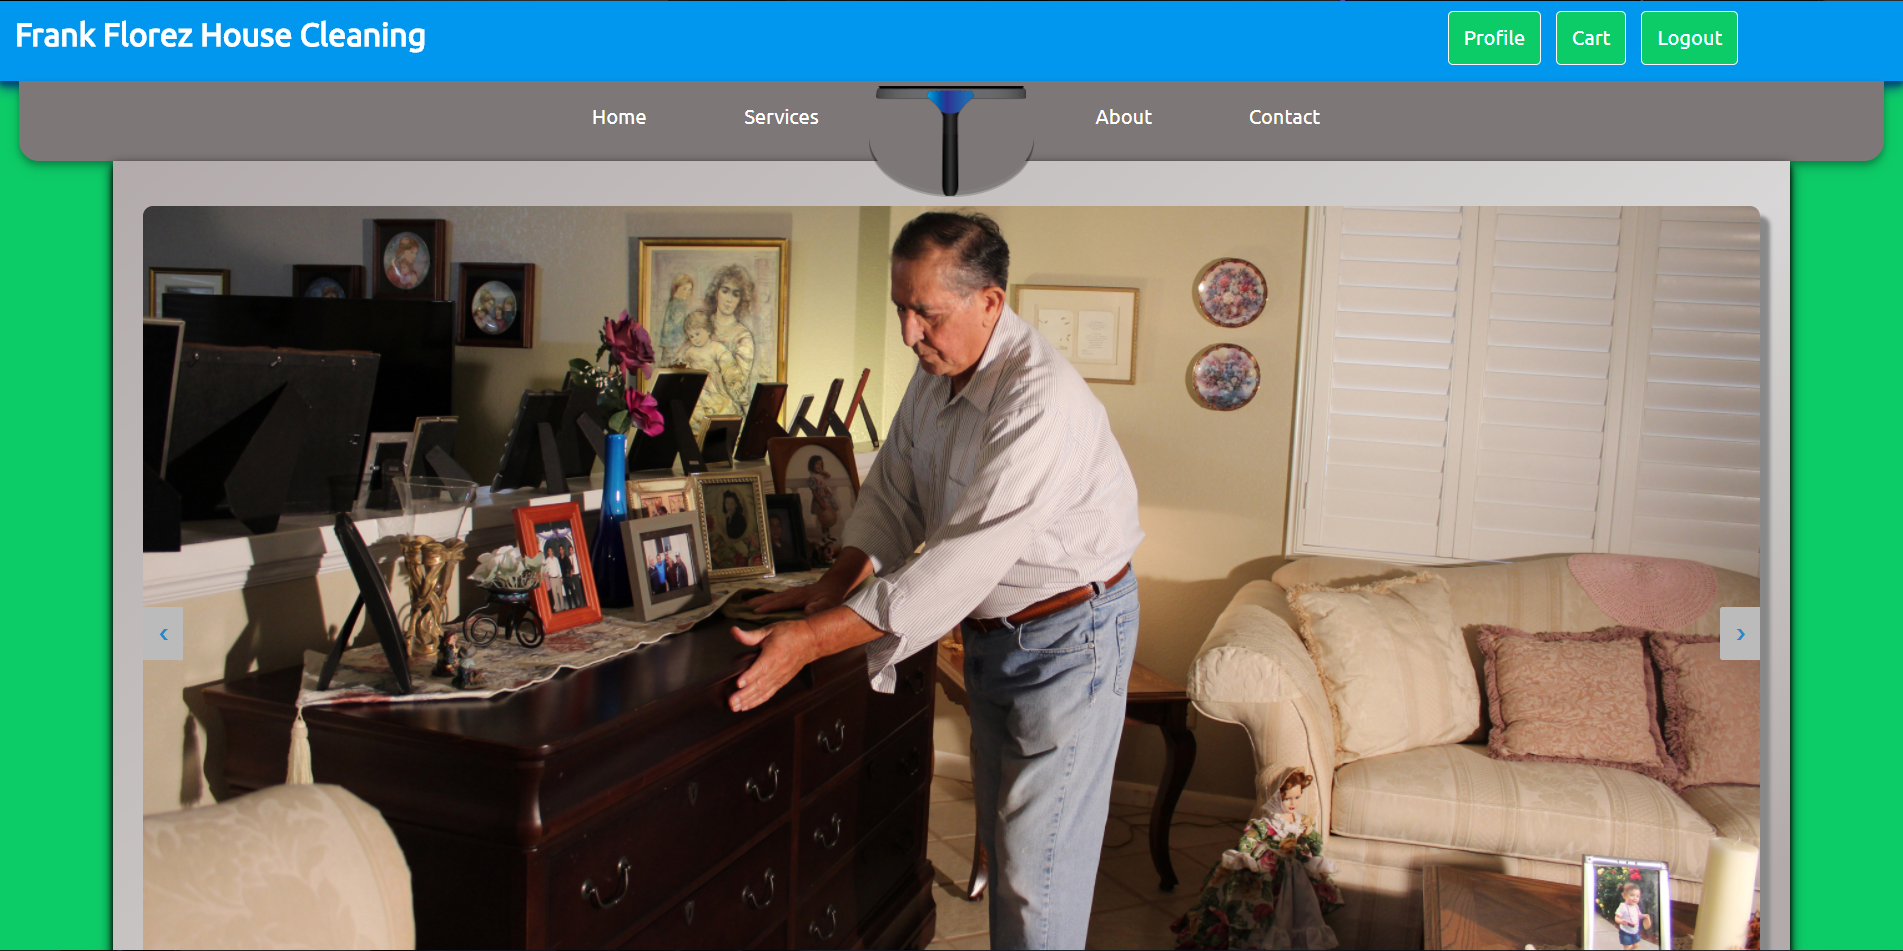
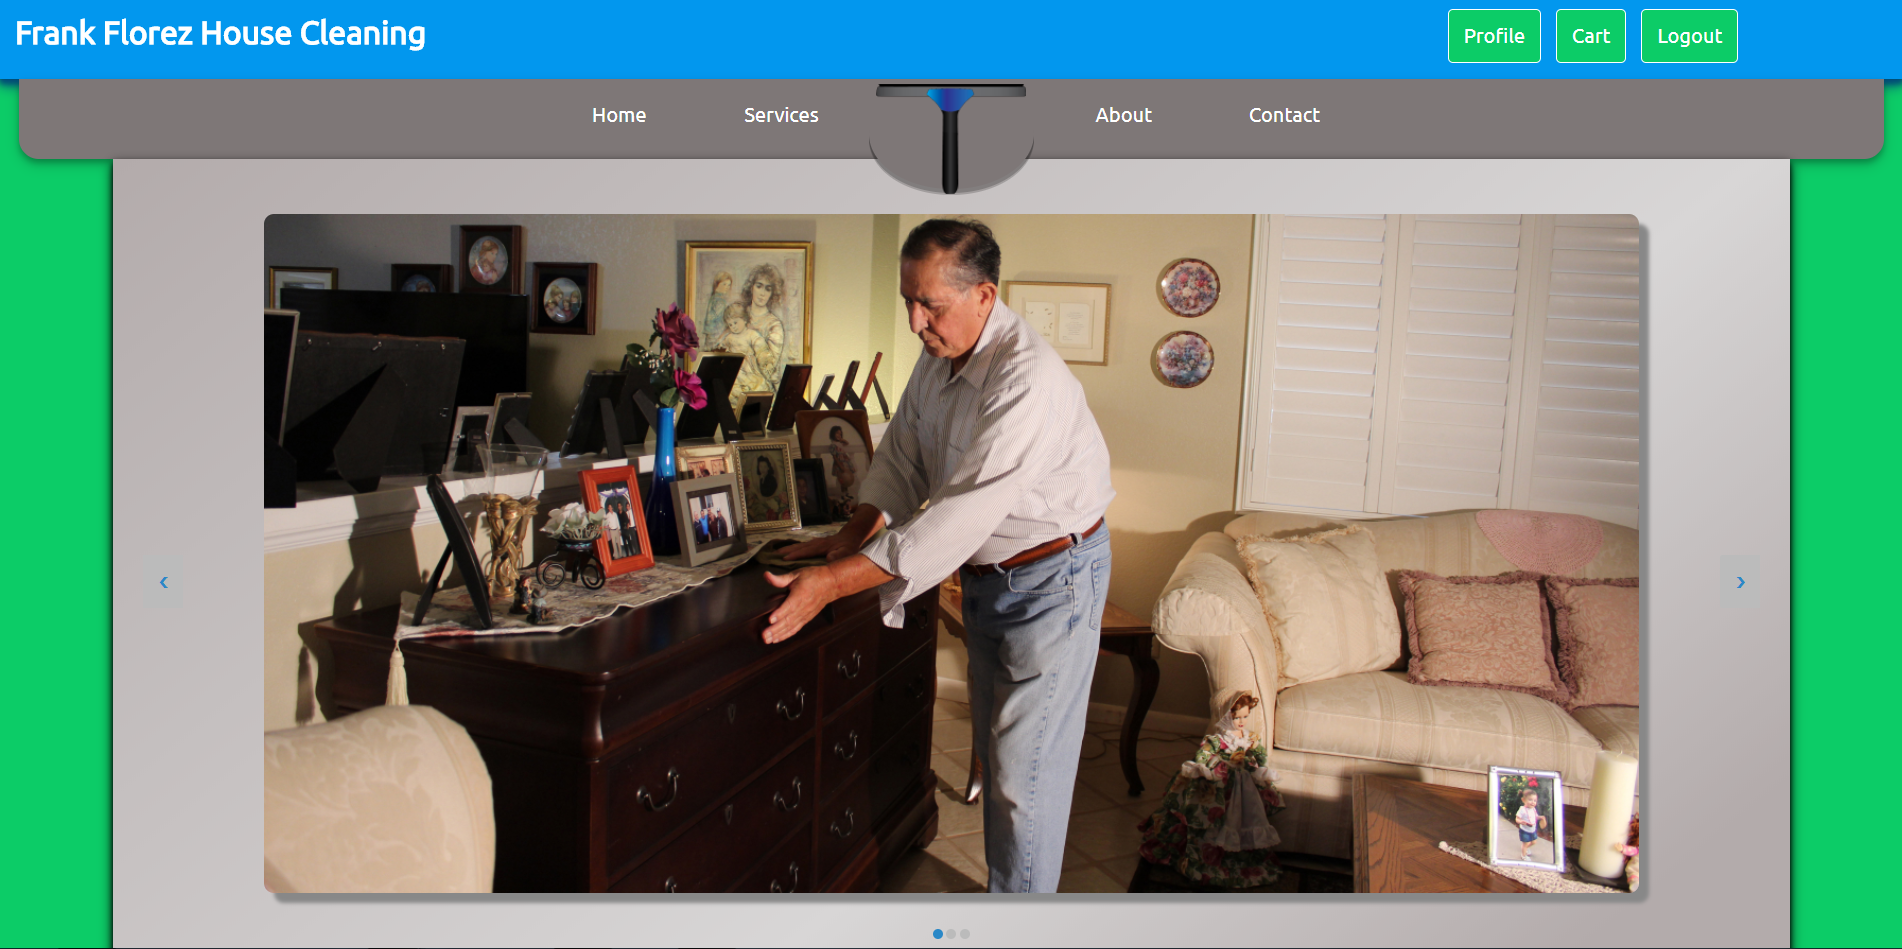
Added images for work page.

diff --git a/public/style/main.css b/public/style/main.css
@@ -9,9 +9,9 @@ body {
   background: linear-gradient(150deg, #292929 30%, #464747 40%, #3c3e3f 50%); 
 } */
 
-.item {
+/* .item {
     border: 1px solid #20b9b9;
-}
+} */
 
 .c-nav ul, .c-nav-link ul {
     list-style-type: none;
@@ -143,6 +143,35 @@ body {
     display: block;
   }
 
+  .work-images {
+    max-width: 75%;
+    box-shadow: 0 0 20px #d9e9f3;
+  }
+
+  .ffhc-image, .talon-project, .activity-hunt, .pizza-lab-image {
+    position: relative;
+    z-index: 1;
+  }
+
+  .ffhc-image img, .talon-project img, .activity-hunt img, .pizza-lab-image img {
+    transition: opacity .6s;
+  }
+
+  .ffhc-image img:hover, .talon-project img:hover, .activity-hunt img:hover, .pizza-lab-image img:hover {
+    opacity: 0.15;
+    z-index: -2;
+  }
+
+  .work-desc {
+    color: white;
+    text-shadow: 0 0 20px #38b6ff;
+    position: absolute;
+    top: 50%;
+    left: 50%;
+    transform: translate(-50%, -50%);
+    z-index: -1;
+  }
+
   .container {
     max-width: 90%;
     text-align: center;
@@ -168,7 +197,6 @@ body {
   }
 
   .top-three, .other-projects {
-    padding: 10px;
     text-align: center;
     color: white;
     text-shadow: 0 0 20px #38b6ff;
@@ -183,18 +211,20 @@ body {
     flex: 1;
   }
 
+  .project-showcase h3, .other-project-showcase h3 {
+    text-align: left;
+  }
+
   .capstone-project, .activity-hunt, .talon-project {
     display: flex;
     flex-direction: column;
     flex: .333;
-    padding: 10px;
   }
 
   .spoof-project, .pizza-lab, .coat-of-arms {
     display: flex;
     flex-direction: column;
     flex: .333;
-    padding: 10px;
   }
 
   .desc {
@@ -211,11 +241,10 @@ body {
   }
 
   .pic {
-    width: 250px;
-    height: 250px;
-    border-radius: 150px;
+    max-width: 100%; 
+    border-radius: 50px;
     margin: 0 auto;
-    text-align: center;
+    text-align: left;
     border: 2px solid #0297ee;
     box-shadow: 0 4px 8px 0 #38b6ff, 0 6px 20px 0 #38b6ff;
   }
